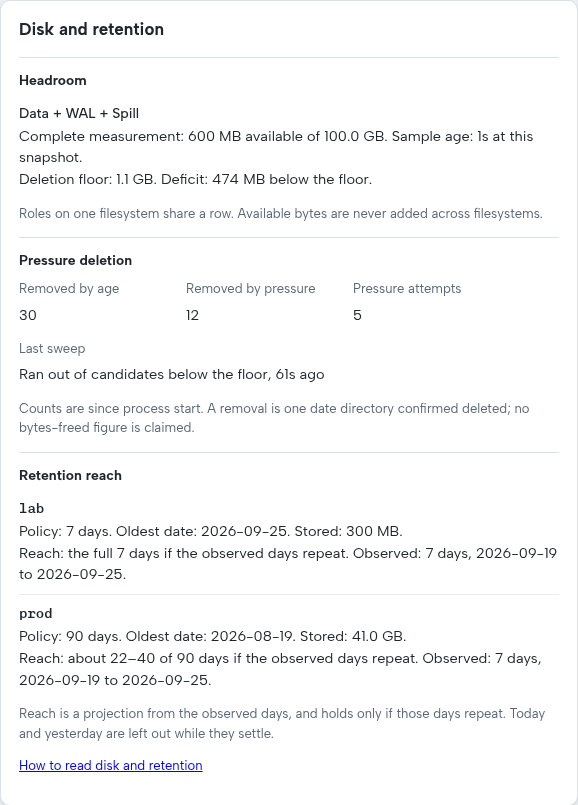
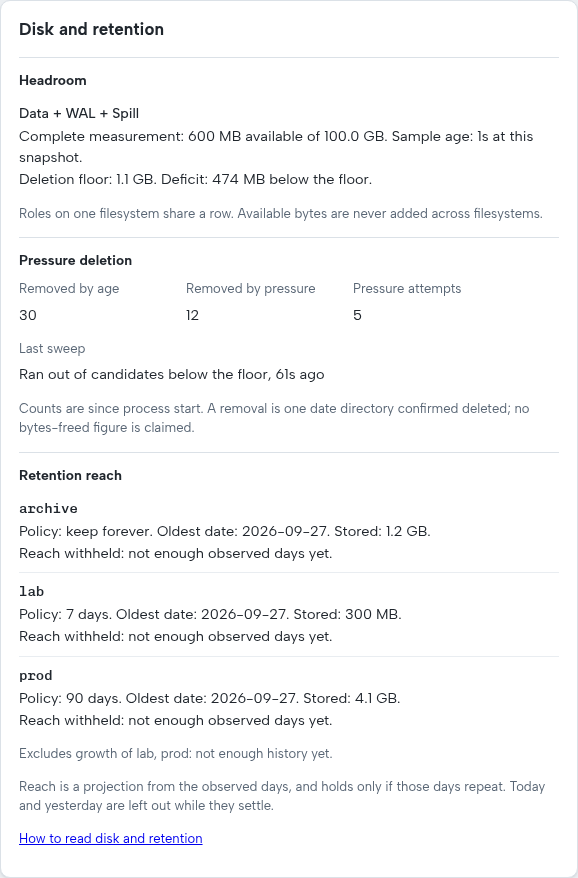
docs(evidence): recapture the Disk and retention states from coherent fixtures (#202)
Recaptured from a clean tree at 24cc2b6e with the whole health-page spec
(61 cases). The withheld capture is gone with its fixture; repin-suppressed
and floor-zero are new. The awaiting and scan-failed captures came out
byte-identical. The manifest names the new head, spec and bundle hashes.

diff --git a/visual-evidence/issue-202/README.md b/visual-evidence/issue-202/README.md
@@ -18,13 +18,14 @@ fit inside the page's own scroll container.
 
 | Capture | Fixture | What it shows |
 | --- | --- | --- |
-| [Complete, 1440](disk-retention-complete-1440.png) | `health-capacity-complete.json` | Two headroom rows (Data + WAL, Spill) with a floor and no deficit; a completed sweep; a projected range ("about 38–52 of 90 days"), a mixed range ("about 12 days to the full 30"), a full policy, keep-forever growth, and one env withheld for history, with the growth-excluded note |
-| [Complete, 390](disk-retention-complete-390.png) | `health-capacity-complete.json` | The same card at a phone width: the pressure facts wrap to two columns, every sentence stays inside the card with no horizontal scroll, and no date breaks at its hyphen |
-| [Failed, retained](disk-retention-failed-retained-1440.png) | `health-capacity-failed-retained.json` | Rows read "Collection failed; last complete reading" with a 3600 s age and a 274 MB deficit; the last sweep failed; both reaches are withheld as measurement unavailable, with no digit |
-| [Withheld](disk-retention-withheld-1440.png) | `health-capacity-withheld.json` | A floor of 0 reads as "Pressure deletion off (floor 0)." with no sweep yet; the three withheld reasons each in words with no digit; a floor-0 env reads "the disk fills before retention is reached" |
-| [Pressure](disk-retention-pressure-1440.png) | `health-capacity-pressure.json` | One row for all three roles with a 474 MB deficit; 12 pressure removals over 5 attempts; a sweep that "Ran out of candidates below the floor"; a shortened prod range |
-| [Awaiting](disk-retention-awaiting-1440.png) | `health-capacity-awaiting.json` | Before the first measurement: headroom and reach both read "Awaiting measurement", with no sweep yet. The empty environment list is not read as "No stored date partitions yet." |
-| [Scan failed](disk-retention-scan-failed-1440.png) | `health-capacity-scan-failed.json` | A Parquet scan that failed with nothing retained: headroom still shows its complete row, and reach reads "Measurement unavailable; collection failed" instead of a measured empty list |
+| [Complete, 1440](disk-retention-complete-1440.png) | `health-capacity-complete.json` | Two headroom rows (Data + WAL, Spill) with a floor and no deficit, and a completed sweep. Three envs are projected in whole days at both ends from one shared fraction per end: prod "about 38–52 of 90 days", staging "about 12–17 of 30 days", and lab "about 3–4 of 7 days" from its 6 observed days. Archive shows keep-forever growth, and k8s is withheld for history and named in the growth-excluded note |
+| [Complete, 390](disk-retention-complete-390.png) | `health-capacity-complete.json` | The same card at a phone width. The pressure facts wrap to two columns, every sentence stays inside the card with no horizontal scroll, and no date breaks at its hyphen |
+| [Failed, retained](disk-retention-failed-retained-1440.png) | `health-capacity-failed-retained.json` | The headroom attempt failed. Its rows read "Collection failed; last complete reading" with a 3600 s age and a 274 MB deficit, and the last sweep failed. All three reaches, the rate-less k8s included, are withheld as measurement unavailable with no digit, and no env is excluded from growth |
+| [Repin suppressed](disk-retention-repin-suppressed-1440.png) | `health-capacity-repin-suppressed.json` | Both measurements are complete, but a repin is in flight. The last sweep reads "Suppressed", every reach is withheld because a repin holds two generations, with no digit, and no env is excluded from growth |
+| [Floor zero](disk-retention-floor-zero-1440.png) | `health-capacity-floor-zero.json` | A floor of 0 reads as "Pressure deletion off (floor 0)." with no pressure attempts. Prod and lab each read that the disk fills first at the largest observed day and keeps the full policy at the mean day. A fresh env is withheld for history and named in the growth-excluded note |
+| [Pressure](disk-retention-pressure-1440.png) | `health-capacity-pressure.json` | One row for all three roles with a 474 MB deficit, 12 pressure removals over 5 attempts, and a sweep that "Ran out of candidates below the floor". That sweep left each env only today's partition, so every reach is withheld for history and the finite envs lab and prod are excluded from growth |
+| [Awaiting](disk-retention-awaiting-1440.png) | `health-capacity-awaiting.json` | Before the first measurement, headroom and reach both read "Awaiting measurement", with no sweep yet. The card does not read the empty environment list as "No stored date partitions yet." |
+| [Scan failed](disk-retention-scan-failed-1440.png) | `health-capacity-scan-failed.json` | A Parquet scan failed with nothing retained. Headroom still shows its complete row, and reach reads "Measurement unavailable; collection failed" instead of a measured empty list |
 
 None of the captures carries a badge, a tone class, or a reassurance
 word. The spec asserts that before each capture, and also that every
@@ -34,16 +35,24 @@ reach sentence is drawn in the same ink as the Storage card's reading.
 
 The `Disk and retention` cases in
 [`health-page.spec.ts`](../../crates/trawl-web-ui/e2e/tests/health-page.spec.ts)
-load one capacity object over the base dashboard snapshot, assert the
-exact sentences of each row, then capture the card. The awaiting and
-scan-failed fixtures also carry the snapshot's Parquet fields, because the
-card reads the Parquet measurement to tell an unmeasured empty list from a
-measured one. Each fixture is pinned
-to its state natively in
-[`e2e_wire_fixture_contract.rs`](../../crates/trawl-web-ui/tests/e2e_wire_fixture_contract.rs),
-so a drifted fixture cannot pass the wrong case. The spec writes a JSON
-sidecar per capture with its claim and SHA-256; the manifest here is
-assembled from those sidecars.
+load one fixture over the base dashboard snapshot, assert the exact
+sentences of each row, then capture the card. Each fixture is a slice of
+the snapshot: the capacity object with the Parquet and WAL fields it was
+assembled beside. The card reads the Parquet measurement to tell an
+unmeasured empty list from a measured one.
+
+The server's `capacity::assemble` produced each fixture's capacity object
+from chosen partition bytes, headroom samples and retention settings, on
+2026-09-27. [`e2e_wire_fixture_contract.rs`](../../crates/trawl-web-ui/tests/e2e_wire_fixture_contract.rs)
+checks every fixture against the producer's invariants. A reason of
+`measurement_unavailable` or `retention_suppressed` applies to every
+environment and excludes none from growth. Each env's observed days start
+at its oldest date or 8 days before 2026-09-27, whichever is later. At each
+end of the range, every projected env reads the full policy or none does.
+A withheld reach carries no number. The same test pins each fixture to the
+state its case asserts, so a drifted fixture cannot pass the wrong case.
+The spec writes a JSON sidecar per capture with its claim and SHA-256. The
+manifest here is assembled from those sidecars.
 
 ## Reproduce the captures
 
